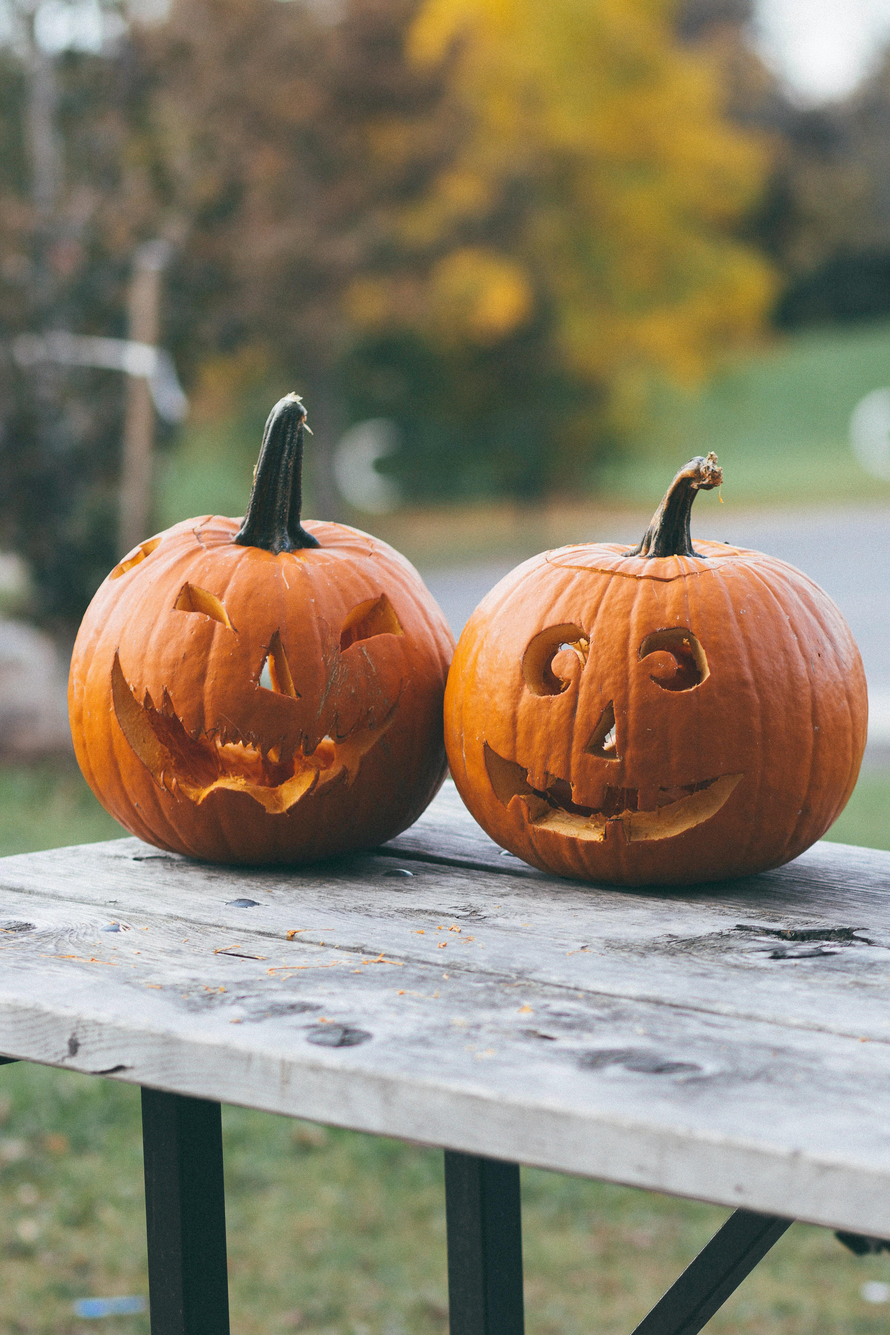
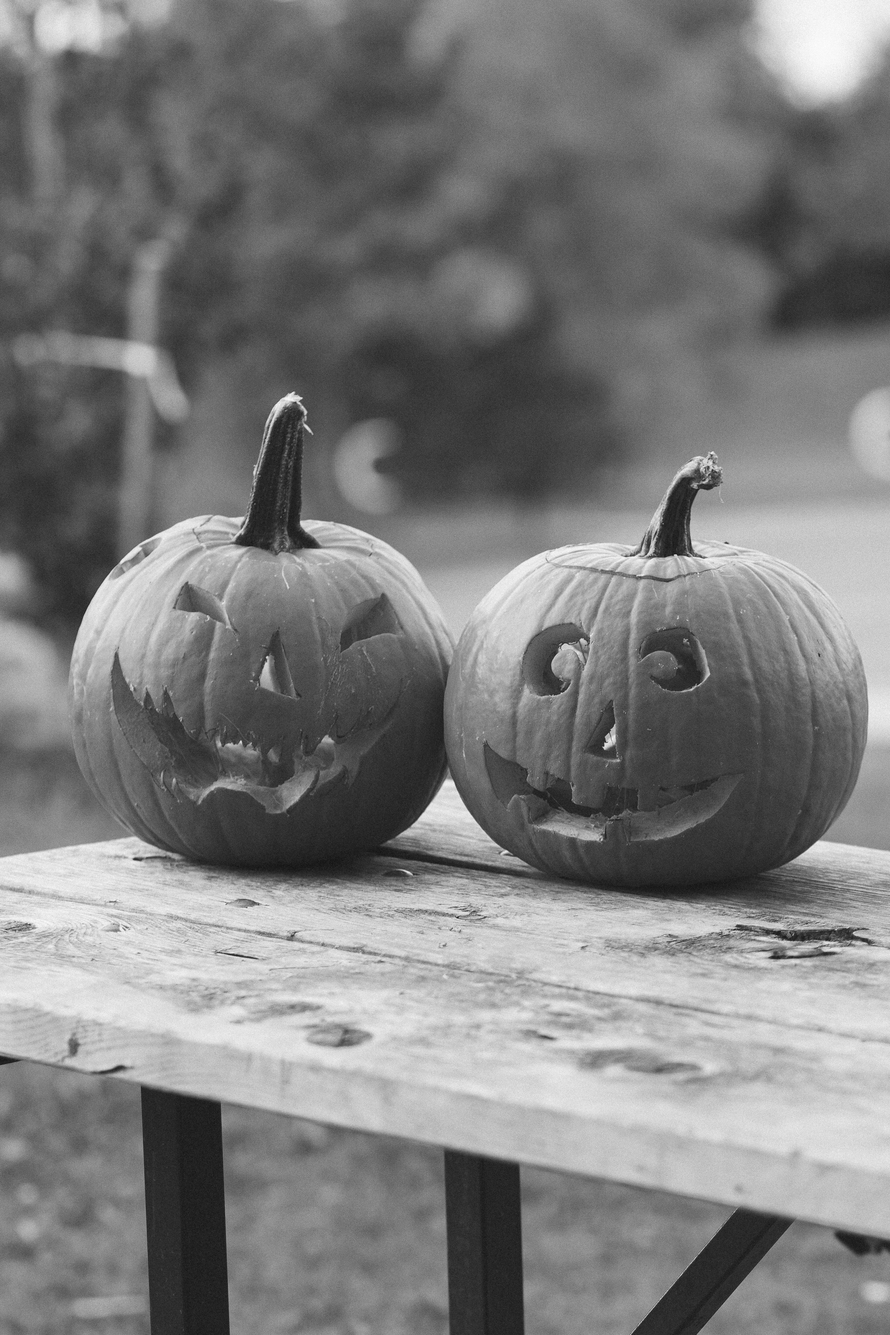
fixed some bugs

diff --git a/Halloweenproject/image_magic.py b/Halloweenproject/image_magic.py
@@ -21,16 +21,14 @@ for y in range(image_height):
         pixel = image.getpixel((x, y))
 
      # grab r, g , b
-        red = pixel[0]
-        green = pixel[1]
-        blue = pixel[2]
+        red, green, blue = pixel
 
      # calculate the average
-    average = int((red + green + blue) / 3)
+        average = int((red + green + blue) / 3)
 
     # create a gray pixel
-    gray_pixel = (average, average, average)
+        gray_pixel = (average, average, average)
 
-output_image.putpixel((x, y), gray_pixel)
+        output_image.putpixel((x, y), gray_pixel)
 
 output_image.save('grayscale.jpg')
